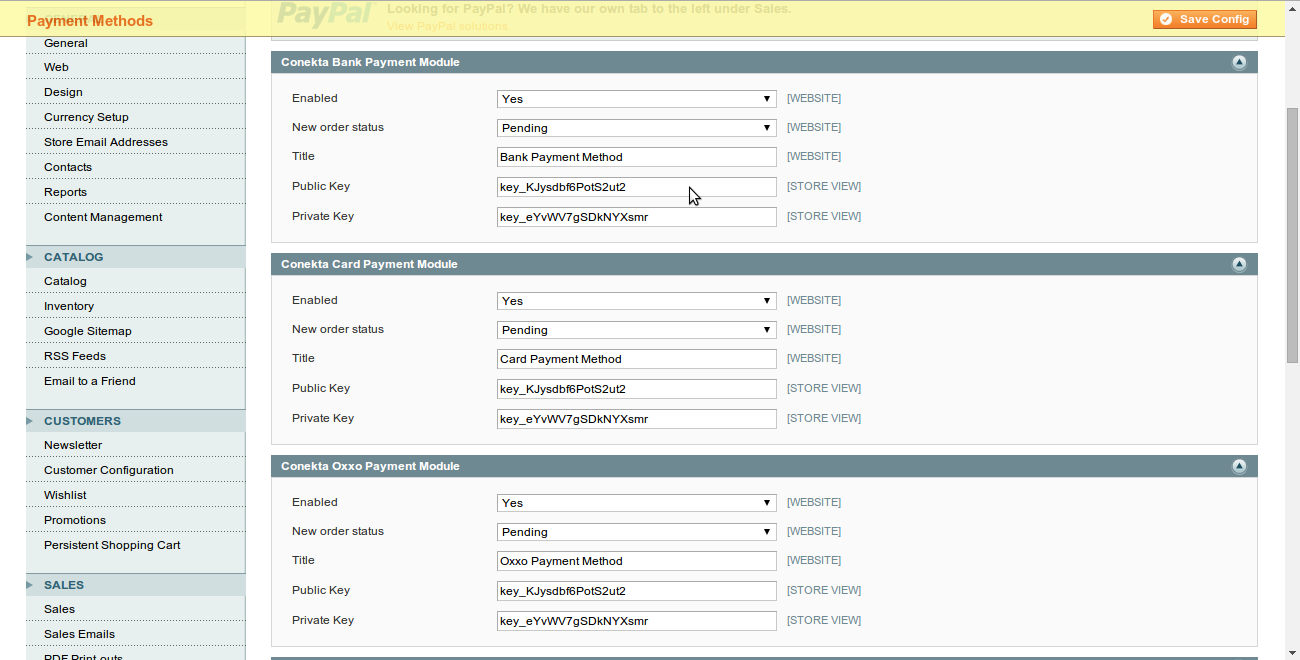
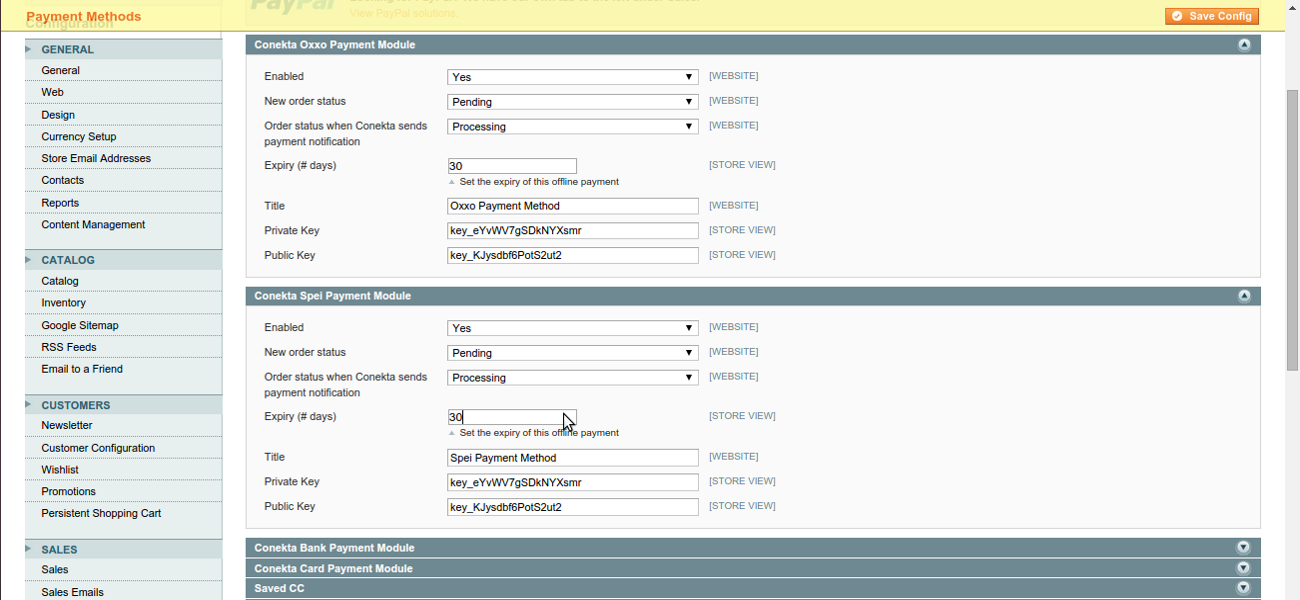
update readme

diff --git a/README.md b/README.md
@@ -1,6 +1,6 @@
 ![alt tag](https://raw.github.com/conekta/conekta-magento/master/readme_files/cover.png)
 
-Magento Plugin v.0.2.2
+Magento Plugin v.0.2.6
 =======================
 This plugin is an official and stable version of the Conekta Magento extension. It bundles functionality to process credit cards, bank and OXXO payments securely as well as send email notifications to your customers when they complete a successful purchase.
 
@@ -51,10 +51,12 @@ Api Private Key:
 Inventory Notes
 ---------------
 
-For credit card purchases, the order status will change to complete everytime there is a successful purchase from Conekta. This is done using an Obsever inside the Card module and it can be changed to meet more specific requirements. 
+Order status can be changed dynamically via "New order status" and "Order status when Conekta sends payment notification" field using the admin in payment methods configuration.
 
-You can also use the Webhook module to manage orders for offline payments using the following url:
+To receive payment notifications, adjuts your webhook in your Conekta Admin the following url:
     `http://mymagento-store.com/index.php/webhook/ajax/listener`
+
+Where mymagento-store.com is a placeholder and it should be replaced with the your website url.
 
 Included modules
 ----------------
@@ -63,6 +65,7 @@ This version includes the following modules:
 * `Conekta_Bank`
 * `Conekta_Card`
 * `Conekta_Oxxo`
+* `Conekta_Spei`
 * `Conekta_Webhook`
 
 License
